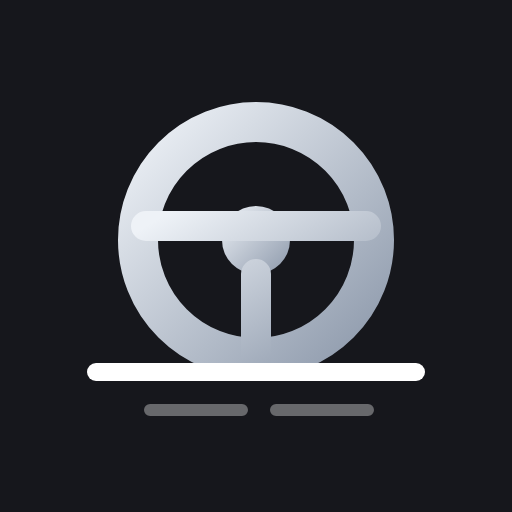
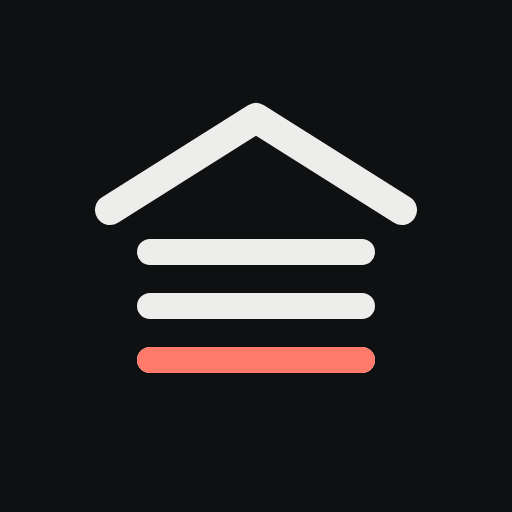
Icône de l'app : porte de garage minimaliste (toit en chevron, trois lattes, la dernière en rouge corail)
Claude-Session: https://claude.ai/code/session_01MevQLY4H5vtbe4AmZUV6NY

Changed region(s): [[0.1562, 0.1875, 0.8438, 0.75], [0.5312, 0.7812, 0.75, 0.8125], [0.2812, 0.7812, 0.5, 0.8125]]

diff --git a/sw.js b/sw.js
@@ -3,7 +3,7 @@
    secours hors ligne. L'app-shell est aussi pré-mis en cache à l'installation,
    pour qu'un tout premier lancement hors ligne (au garage, en concession…)
    affiche l'app au lieu d'un écran blanc. */
-const CACHE = 'mon-garage-v23';
+const CACHE = 'mon-garage-v24';
 // pdf.js (visionneuse PDF des documents) : servi par cdnjs, version figée → cache d'abord.
 const PDFJS_PREFIX = 'https://cdnjs.cloudflare.com/ajax/libs/pdf.js/3.11.174/';
 

diff --git a/README.md b/README.md
@@ -28,7 +28,7 @@ database.rules.json     règles Realtime Database (chaque compte ne voit que ses
 - Déconnexion (ici, ou depuis une autre app de la famille : session commune) : les fenêtres ouvertes sont refermées avant l'écran de connexion.
 
 ## Logo
-Volant à quatre branches, vert anglais et or (`icon.svg`, décliné en `icon-192.png`, `icon-512.png`, `apple-touch-icon.png`), aussi utilisé comme logo sur l'écran de connexion.
+Porte de garage minimaliste : toit en chevron et trois lattes claires sur fond anthracite, la dernière en rouge corail (`icon.svg`, décliné en `icon-192.png`, `icon-512.png`, `apple-touch-icon.png`), aussi utilisé comme logo sur l'écran de connexion.
 
 ## Réglages (thème)
 Bouton réglages (en-tête de l'accueil) → feuille « Réglages » : thème **Auto** (par défaut : suit le réglage clair / sombre de l'iPhone, `prefers-color-scheme`, en direct), Sombre ou Clair. Un thème « Sombre » enregistré (ancien défaut) devient « Auto » une seule fois (drapeau `garage_theme_auto`, sur l'appareil puis à la première réception des données du compte) ; « Clair » reste « Clair » ; un choix fait dans les réglages n'est plus jamais migré. Le script anti-flash de `index.html` résout « Auto » avant l'affichage ; `data-theme` vaut toujours `dark` ou `light` (CSS inchangé) et la couleur de la barre d'état suit (`#0f1011` sombre, `#f5f5f3` clair). Un seul style graphique, **Acier**, appliqué à tous les comptes (attribut `data-style`).
@@ -98,4 +98,4 @@ python3 -m http.server 8000
 puis http://localhost:8000.
 
 ## Style
-Style **Carrousel** (`css/carrousel.css`, chargé en dernier) : minimaliste monochrome, police Geist commune avec Carnet (`fonts/`), aucune image de fond ni dégradé. L'accueil montre les noms des véhicules en onglets, puis une grande carte par véhicule qu'on fait glisser : nom, encadré photo (agrandie au toucher), compteur en grand avec sa mise à jour, et les trois échéances les plus proches, chacune soulignée d'un trait d'avancement. Dans la fiche, le compteur est en grand à côté de la photo, et les échéances, rappels et documents à date défilent en cartes ; l'historique est une frise. Seules couleurs : l'état des échéances. Cartes 26px, éléments interactifs en pilule, champs 12px. Thème Auto, sombre ou clair. Textes au vouvoiement. Logo : volant acier avec la ligne d'horizon commune aux logos des apps.
+Style **Carrousel** (`css/carrousel.css`, chargé en dernier) : minimaliste monochrome, police Geist commune avec Carnet (`fonts/`), aucune image de fond ni dégradé. L'accueil montre les noms des véhicules en onglets, puis une grande carte par véhicule qu'on fait glisser : nom, encadré photo (agrandie au toucher), compteur en grand avec sa mise à jour, et les trois échéances les plus proches, chacune soulignée d'un trait d'avancement. Dans la fiche, le compteur est en grand à côté de la photo, et les échéances, rappels et documents à date défilent en cartes ; l'historique est une frise. Seules couleurs : l'état des échéances. Cartes 26px, éléments interactifs en pilule, champs 12px. Thème Auto, sombre ou clair. Textes au vouvoiement. Logo : porte de garage (voir « Logo »).
